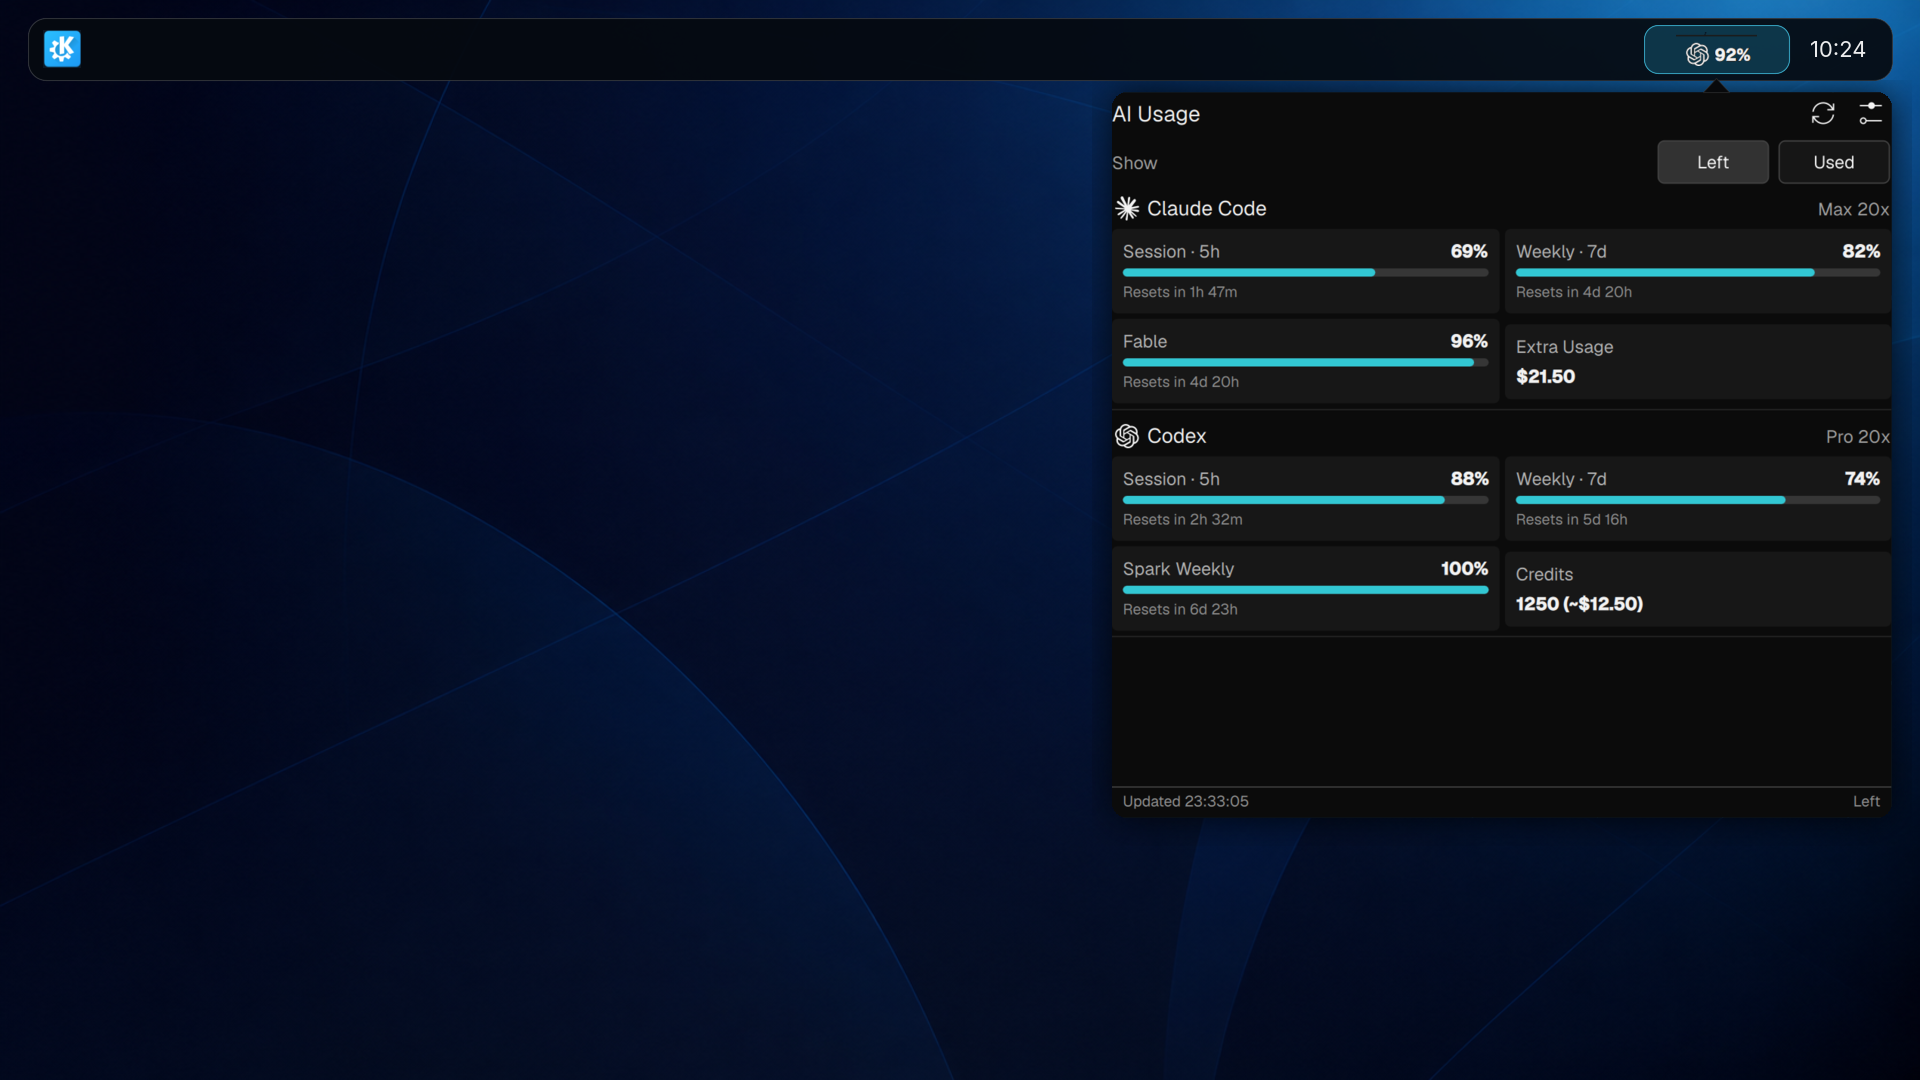
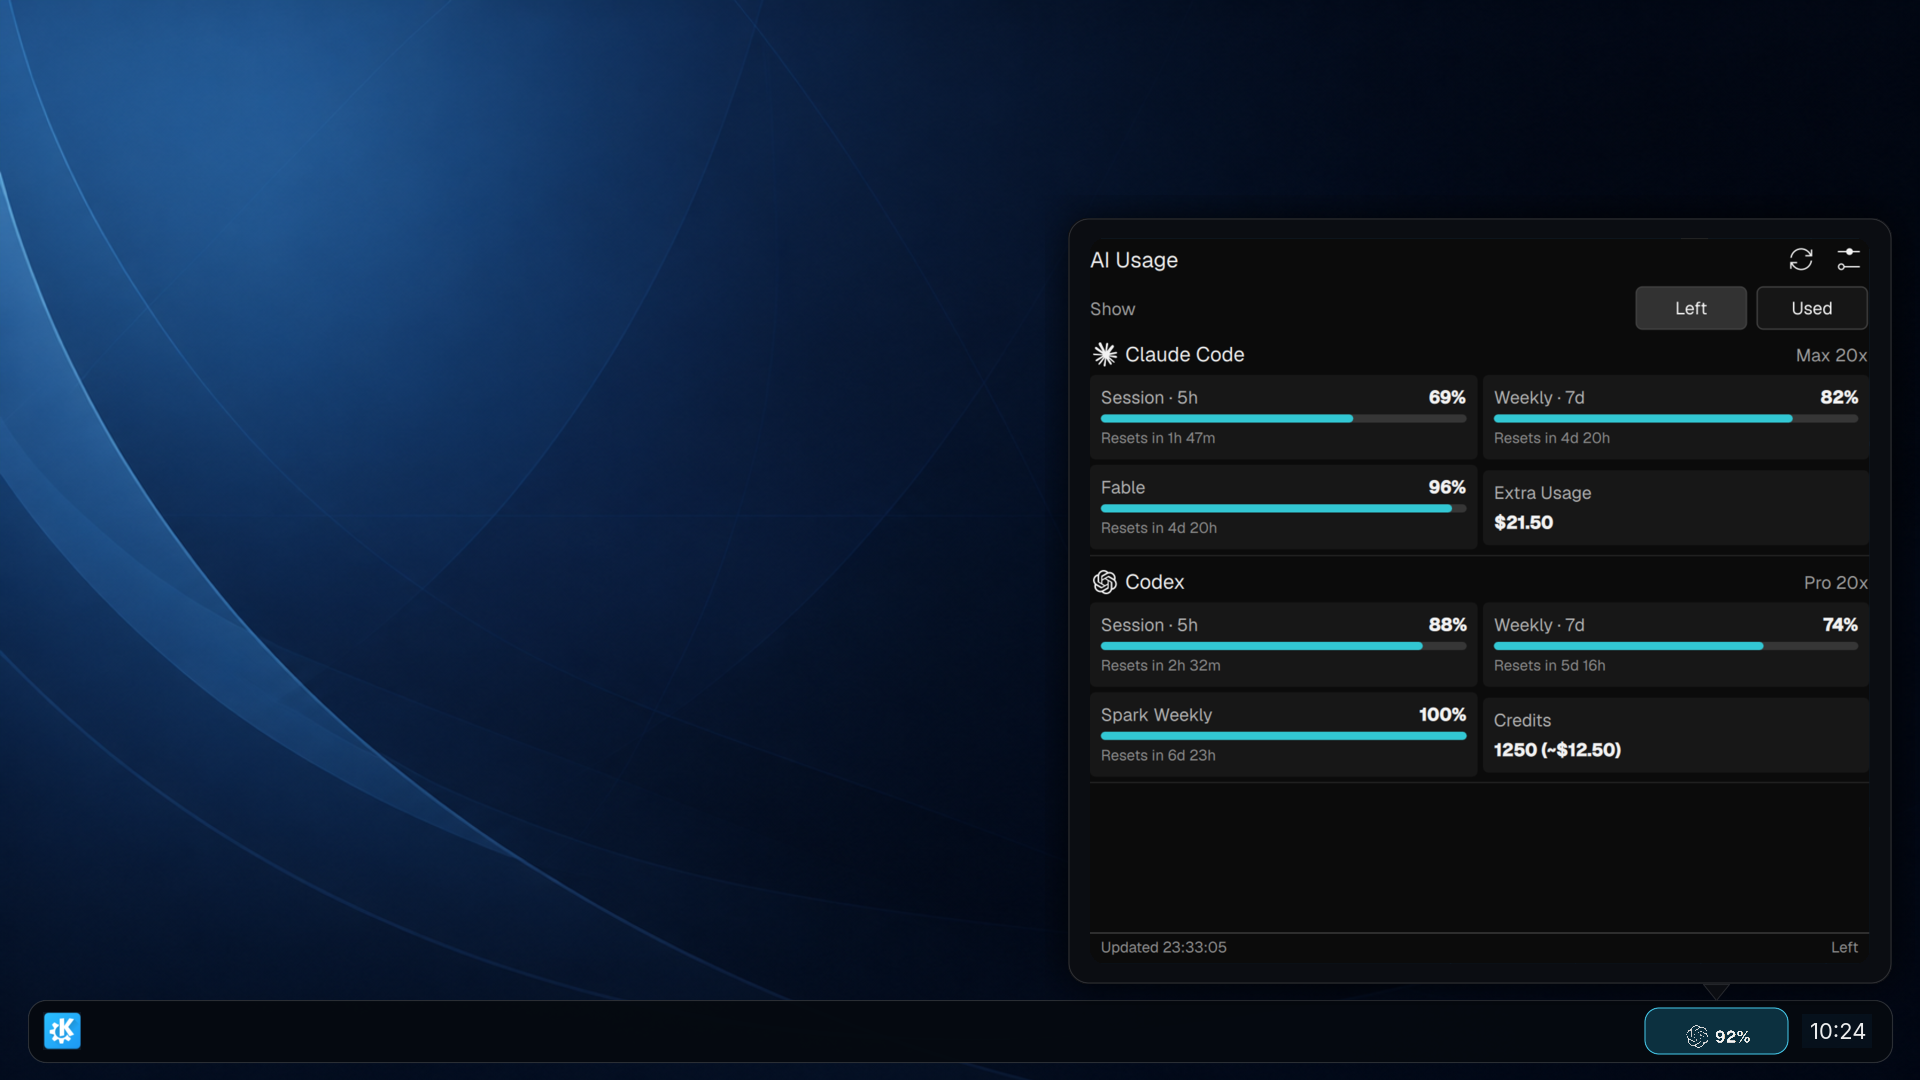
docs: anchor popup to bottom Plasma panel

diff --git a/README.md b/README.md
@@ -11,7 +11,7 @@
 
 <br>
 
-<img src="docs/preview.png" alt="AI Usage popup opened directly from its compact quota item in the KDE Plasma panel" width="1100">
+<img src="docs/preview.png" alt="AI Usage popup opening upward from its compact quota item in the bottom KDE Plasma panel" width="1100">
 
 </div>
 
